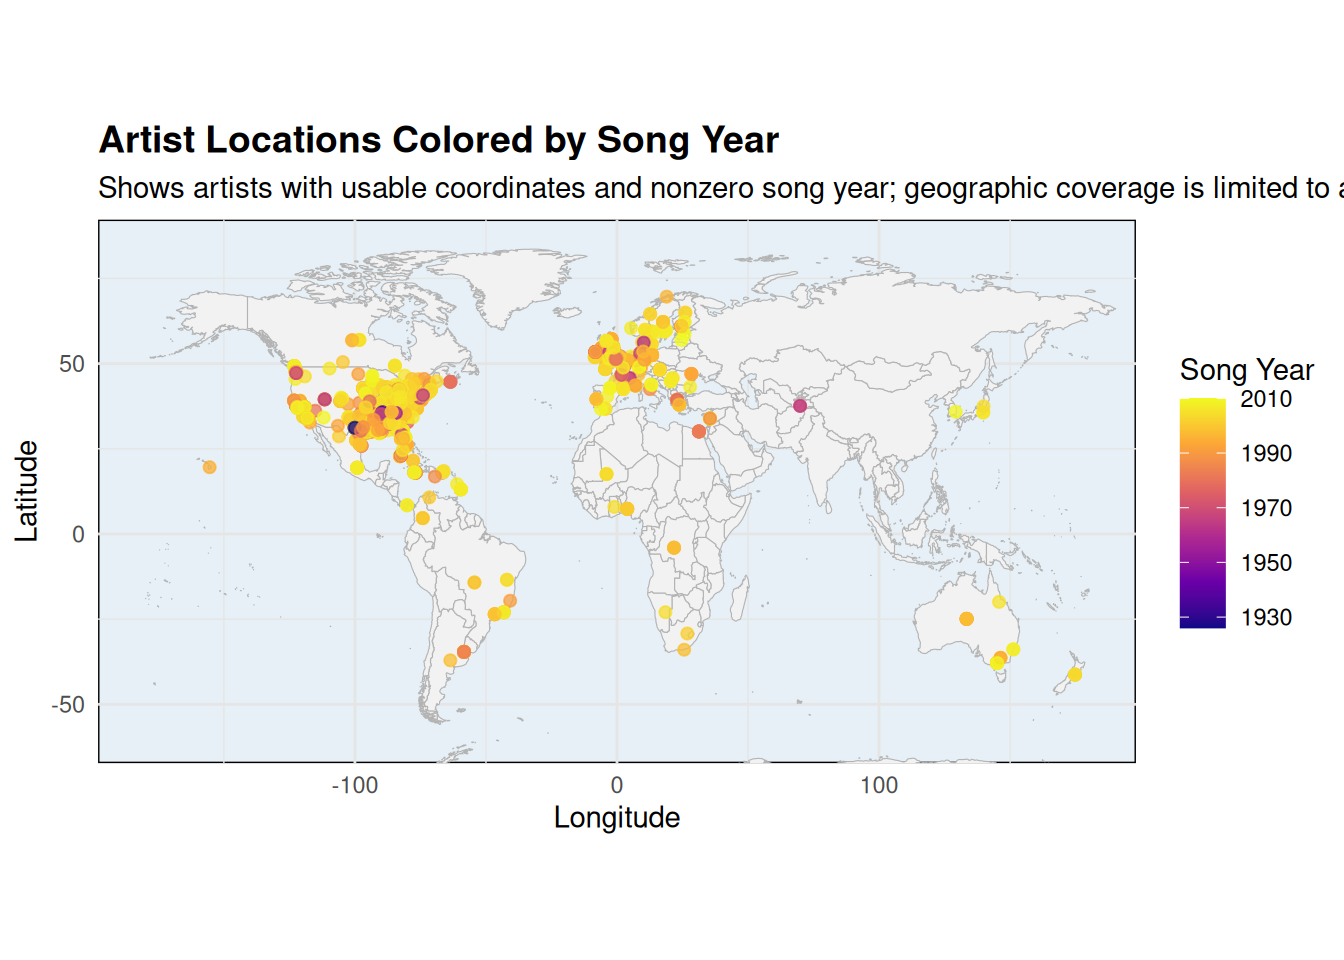
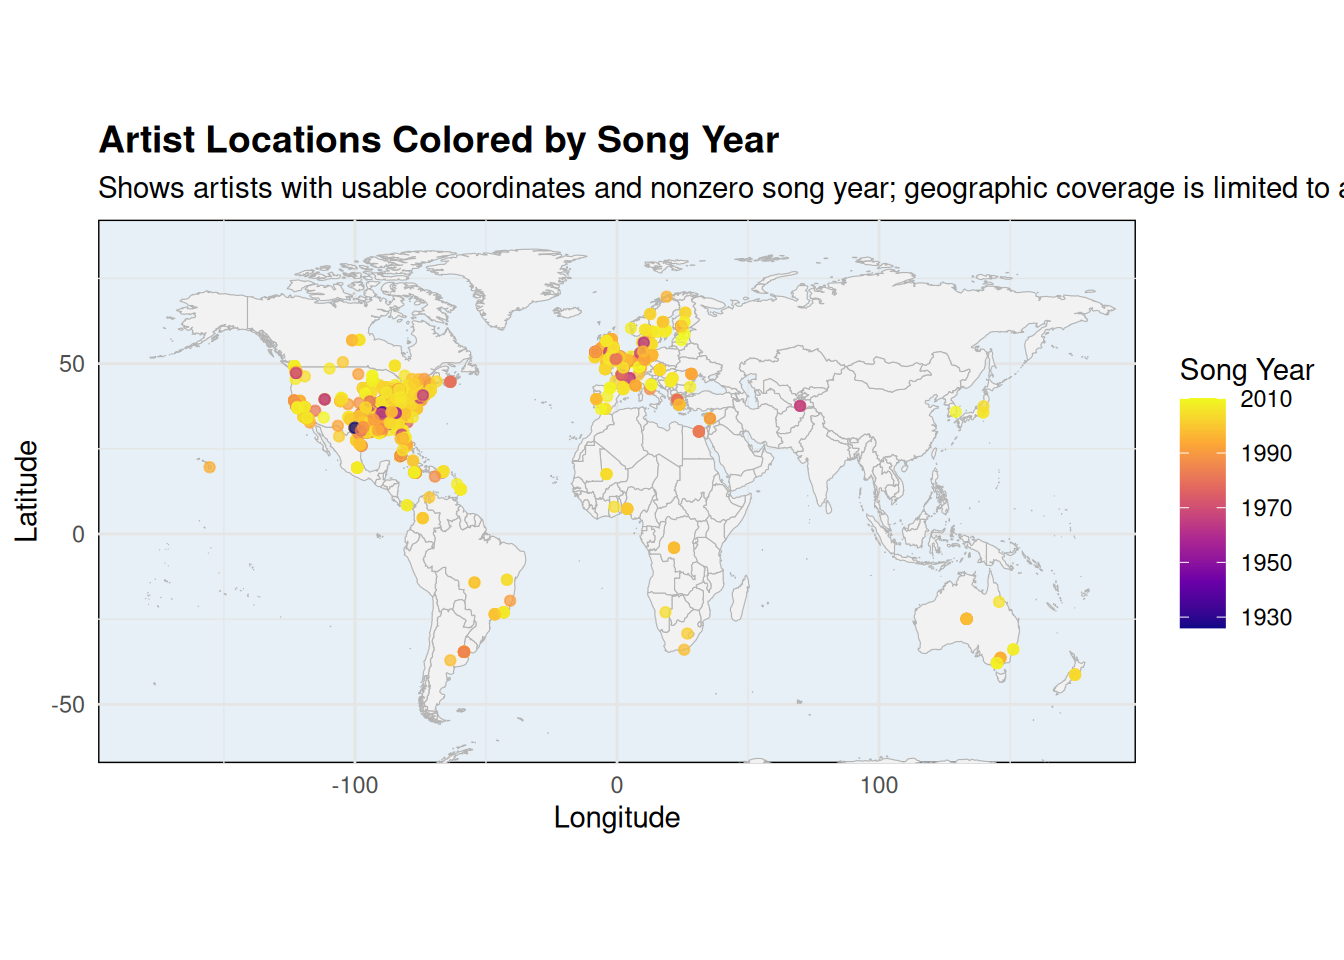
Built site for gh-pages

Changed region(s): [[0.2188, 0.375, 0.3438, 0.5312], [0.4375, 0.3125, 0.5312, 0.4375], [0.5, 0.6562, 0.5312, 0.6875]]

diff --git a/analysis.html b/analysis.html
@@ -121,15 +121,6 @@ TRUE  placeholder_coordinates  6258</code></pre>
 </div>
 <p>Many artist’s location is unknown, which is why there are many placeholder coordinates. The placeholder coordinates are represented by (0, 0), which is not a valid location for any artist, so they’ve not been placed on the map.</p>
 <div class="cell">
-<div class="cell-output cell-output-stderr">
-<pre><code>
-Attaching package: 'maps'</code></pre>
-</div>
-<div class="cell-output cell-output-stderr">
-<pre><code>The following object is masked from 'package:purrr':
-
-    map</code></pre>
-</div>
 <div class="cell-output-display">
 <div>
 <figure class="figure">
@@ -164,6 +155,10 @@ Attaching package: 'maps'</code></pre>
 </div>
 <p>There is a cluster of blues music in the United States along with metal music in Europe.</p>
 <div class="cell">
+<div class="cell-output cell-output-stderr">
+<pre><code>Warning in geom_point(data = year_artists, aes(x = artist.longitude, y =
+artist.latitude, : Ignoring unknown parameters: `linewidth`</code></pre>
+</div>
 <div class="cell-output-display">
 <div>
 <figure class="figure">

diff --git a/index.html b/index.html
@@ -121,15 +121,6 @@ TRUE  placeholder_coordinates  6258</code></pre>
 </div>
 <p>Many artist’s location is unknown, which is why there are many placeholder coordinates. The placeholder coordinates are represented by (0, 0), which is not a valid location for any artist, so they’ve not been placed on the map.</p>
 <div class="cell">
-<div class="cell-output cell-output-stderr">
-<pre><code>
-Attaching package: 'maps'</code></pre>
-</div>
-<div class="cell-output cell-output-stderr">
-<pre><code>The following object is masked from 'package:purrr':
-
-    map</code></pre>
-</div>
 <div class="cell-output-display">
 <div>
 <figure class="figure">
@@ -164,6 +155,10 @@ Attaching package: 'maps'</code></pre>
 </div>
 <p>There is a cluster of blues music in the United States along with metal music in Europe.</p>
 <div class="cell">
+<div class="cell-output cell-output-stderr">
+<pre><code>Warning in geom_point(data = year_artists, aes(x = artist.longitude, y =
+artist.latitude, : Ignoring unknown parameters: `linewidth`</code></pre>
+</div>
 <div class="cell-output-display">
 <div>
 <figure class="figure">
